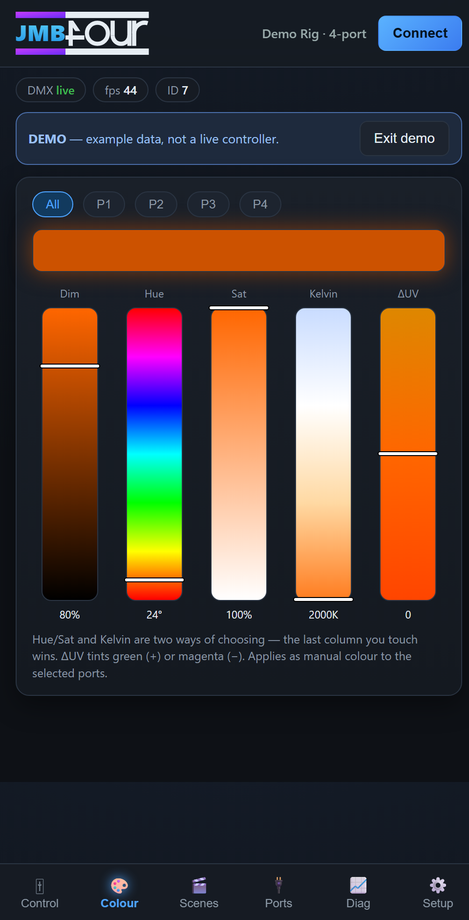
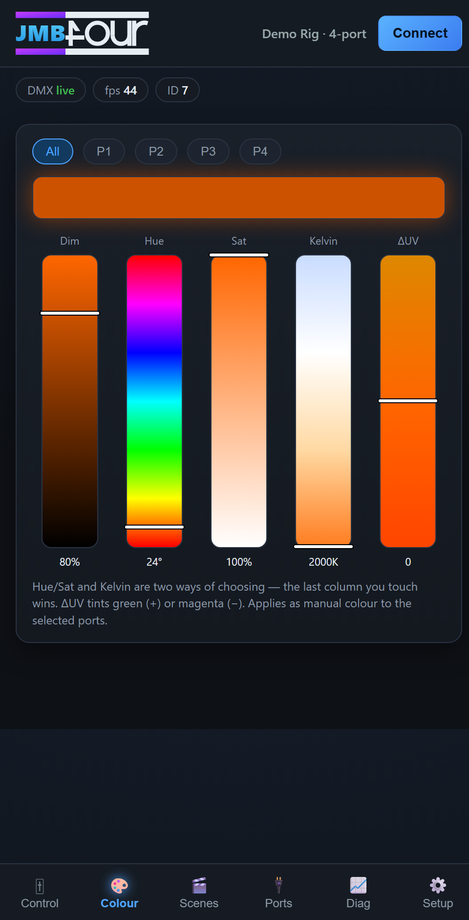
Impressive app screenshots (clean, incl. universe analyzer) + feature the DMX analyzer (new card, 3x3 grid)

diff --git a/index.html b/index.html
@@ -75,7 +75,7 @@
     padding:3px 10px; border-radius:999px; margin-bottom:12px; }
   .prod p{ margin:0; color:var(--dim); font-size:15px; }
   /* features */
-  .feats{ display:grid; grid-template-columns:repeat(4,1fr); gap:18px; }
+  .feats{ display:grid; grid-template-columns:repeat(3,1fr); gap:18px; }
   .feat{ background:var(--card); border:1px solid var(--line); border-radius:14px; padding:22px; }
   .feat .fi{ font-size:26px; margin-bottom:10px; }
   .feat h3{ font-size:16.5px; margin:0 0 6px; }
@@ -192,7 +192,7 @@
 <section id="features" style="background:var(--bg2)"><div class="wrap">
   <h2>Built for the set</h2>
   <p class="sub">The things that matter when the camera's rolling: clean light, control you can trust, and a rig that tells you the truth about its state.</p>
-  <div class="feats"><div class="feat"><div class="fi">🎥</div><h3>Flicker-free on camera</h3><p>High-frequency PWM with 16-bit, dithered dimming — no banding on camera, and fades that stay smooth with no visible stepping.</p></div><div class="feat"><div class="fi">🛡</div><h3>Protection in microseconds</h3><p>Per-port over-current is caught in microseconds — faster than a fuse or a PSU surge — with short and thermal foldback that rides through a fault instead of just tripping.</p></div><div class="feat"><div class="fi">🎛</div><h3>DMX, CRMX &amp; RDM</h3><p>Wired DMX or CRMX wireless (LumenRadio), with full RDM — discovery, remote addressing and sensor feedback from the desk.</p></div><div class="feat"><div class="fi">🎬</div><h3>21 film-ready effects</h3><p>Fire, candle, lightning, TV glow, passing headlights, faulty fluorescent, paparazzi and more — with rig-wide tempo and spread.</p></div><div class="feat"><div class="fi">🎨</div><h3>Per-port colour &amp; curves</h3><p>RGB or tuneable white on every output, with a Hue/Sat/Kelvin picker, dimmer curves and per-channel trim.</p></div><div class="feat"><div class="fi">📈</div><h3>Live telemetry</h3><p>Per-port current — calibrated to within 1% of a bench meter — plus temperature, faults and source, so the rig tells you the truth about its state.</p></div><div class="feat"><div class="fi"><svg viewBox="0 0 24 24" width="27" height="27" fill="none" stroke="#5fd7ff" stroke-width="2" stroke-linecap="round" stroke-linejoin="round" style="vertical-align:top" aria-label="Bluetooth"><path d="m7 7 10 10-5 5V2l5 5L7 17"/></svg></div><h3>Runs from your phone</h3><p>Set up and run everything over Bluetooth. The control path never touches a network: no cloud, no account, no tracking.</p></div><div class="feat"><div class="fi">⬆</div><h3>Wireless updates</h3><p>Firmware straight over Bluetooth, with automatic rollback if a build ever misbehaves.</p></div></div>
+  <div class="feats"><div class="feat"><div class="fi">🎥</div><h3>Flicker-free on camera</h3><p>High-frequency PWM with 16-bit, dithered dimming — no banding on camera, and fades that stay smooth with no visible stepping.</p></div><div class="feat"><div class="fi">🛡</div><h3>Protection in microseconds</h3><p>Per-port over-current is caught in microseconds — faster than a fuse or a PSU surge — with short and thermal foldback that rides through a fault instead of just tripping.</p></div><div class="feat"><div class="fi">🎛</div><h3>DMX, CRMX &amp; RDM</h3><p>Wired DMX or CRMX wireless (LumenRadio), with full RDM — discovery, remote addressing and sensor feedback from the desk.</p></div><div class="feat"><div class="fi">🎬</div><h3>21 film-ready effects</h3><p>Fire, candle, lightning, TV glow, passing headlights, faulty fluorescent, paparazzi and more — with rig-wide tempo and spread.</p></div><div class="feat"><div class="fi">🎨</div><h3>Per-port colour &amp; curves</h3><p>RGB or tuneable white on every output, with a Hue/Sat/Kelvin picker, dimmer curves and per-channel trim.</p></div><div class="feat"><div class="fi">📈</div><h3>Live telemetry</h3><p>Per-port current — calibrated to within 1% of a bench meter — plus temperature, faults and source, so the rig tells you the truth about its state.</p></div><div class="feat"><div class="fi">🔬</div><h3>DMX analysis &amp; universe health</h3><p>A full analyzer built in — live signal stats (fps, slots, errors), a channel-by-channel universe heatmap with min/max capture, a flicker finder, and an RDM tester for every fixture downstream.</p></div><div class="feat"><div class="fi"><svg viewBox="0 0 24 24" width="27" height="27" fill="none" stroke="#5fd7ff" stroke-width="2" stroke-linecap="round" stroke-linejoin="round" style="vertical-align:top" aria-label="Bluetooth"><path d="m7 7 10 10-5 5V2l5 5L7 17"/></svg></div><h3>Runs from your phone</h3><p>Set up and run everything over Bluetooth. The control path never touches a network: no cloud, no account, no tracking.</p></div><div class="feat"><div class="fi">⬆</div><h3>Wireless updates</h3><p>Firmware straight over Bluetooth, with automatic rollback if a build ever misbehaves.</p></div></div>
 </div></section>
 
 <section id="specs"><div class="wrap">
@@ -217,7 +217,7 @@
       <a class="btn" href="https://jonathanbillitt.github.io/jmb-zone-app/" target="_blank" rel="noopener">Open the app</a>
     </div>
   </div>
-</div><div class="shots"><img loading="lazy" src="app-control.png?v2" alt="Per-port control"><img loading="lazy" src="app-colour.png?v2" alt="Console-style colour picker"><img loading="lazy" src="app-scenes.png?v2" alt="Scenes &amp; shows"><img loading="lazy" src="app-ports.png?v2" alt="Live telemetry"></div></div></section>
+</div><div class="shots"><img loading="lazy" src="app-control.png?v3" alt="Per-port control"><img loading="lazy" src="app-colour.png?v3" alt="Console-style colour picker"><img loading="lazy" src="app-ports.png?v3" alt="Live telemetry"><img loading="lazy" src="app-diag.png?v3" alt="DMX universe analyzer"></div></div></section>
 
 <section id="docs" style="background:var(--bg2)"><div class="wrap">
   <h2>Documentation</h2>
